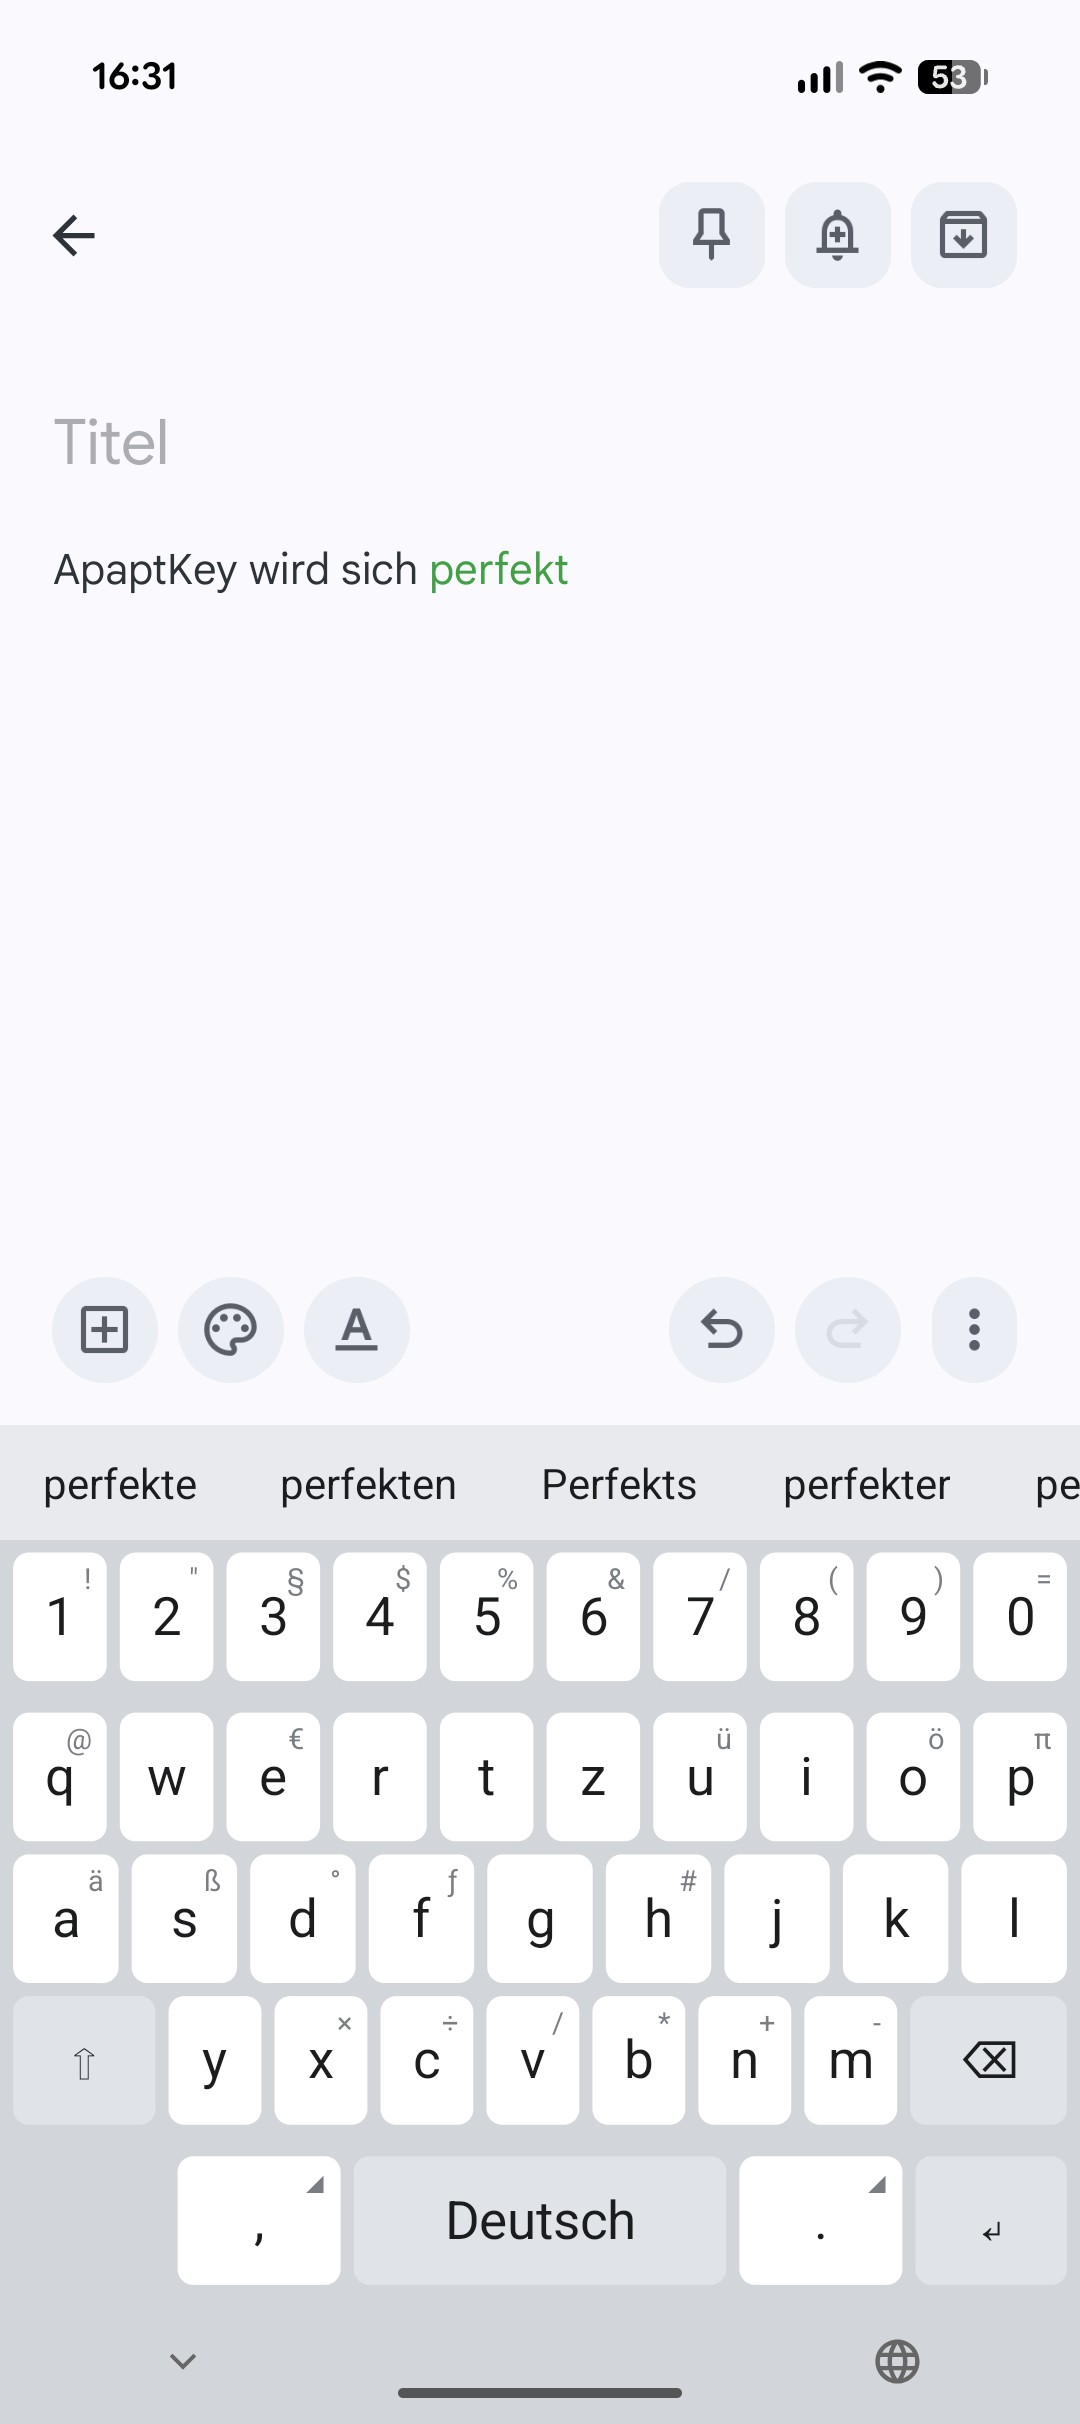
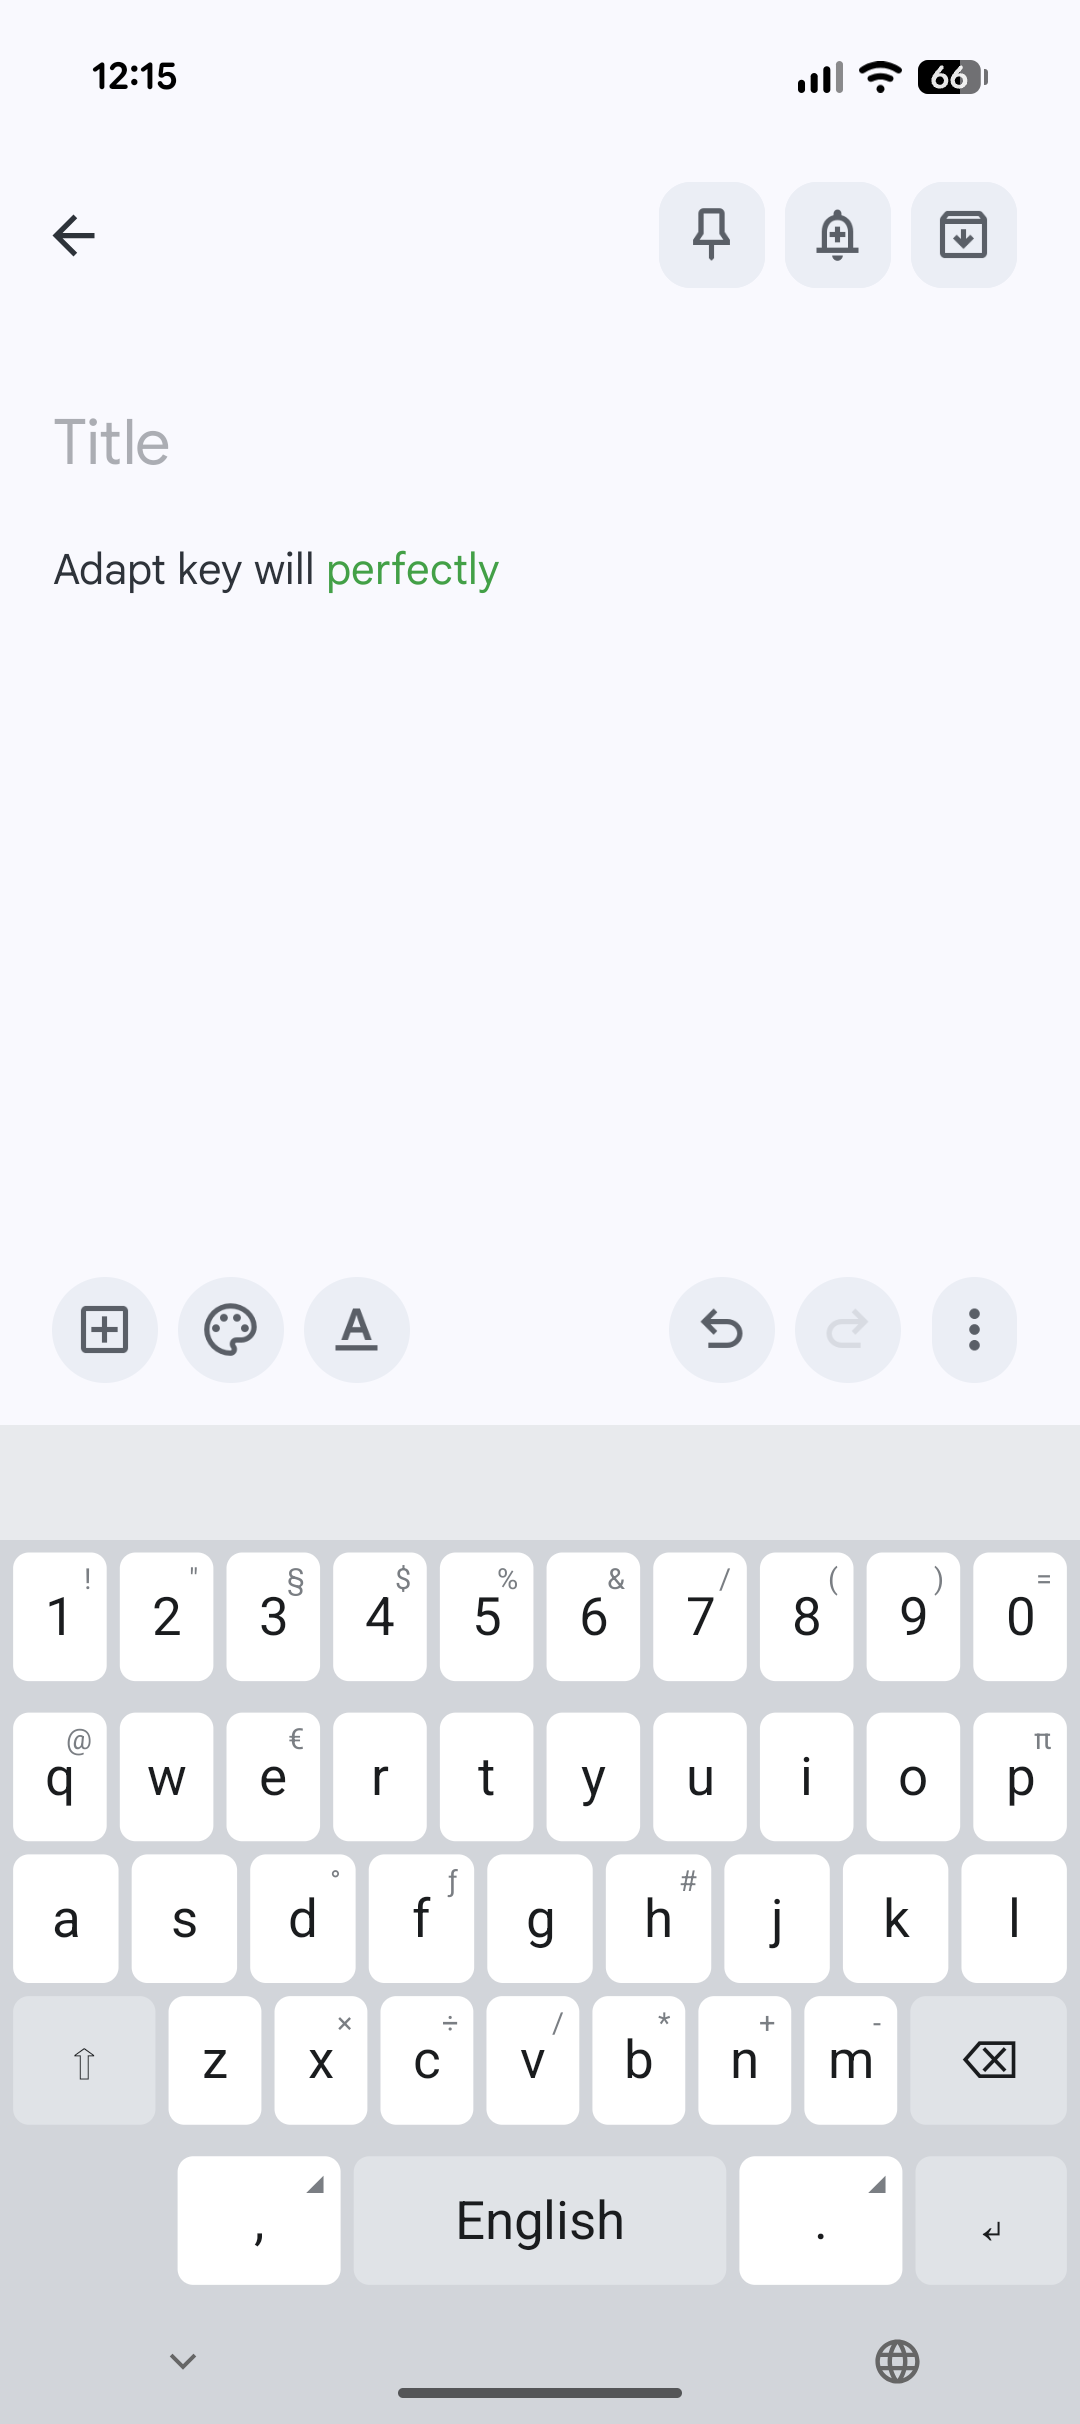
F-Droid: replace German phoneScreenshots with real English ones
Resolves the long-deferred quirk (en-US screenshots were German captures)
- the user dropped in genuine English-language keyboard screenshots.
Progress.md updated: marks this resolved and tracks the two remaining
F-Droid steps (push to origin/main, react to the maintainer's review reply
once retrieved). Not pushed - the user pushes to origin themselves.

diff --git a/AdaptKey-Progress.md b/AdaptKey-Progress.md
@@ -201,21 +201,26 @@ in every prompt.
 - **GitHub Release `v1.0.10` ("AdaptKey first official release") confirmed live**, with the signed
   `AdaptKey.apk` (36.9 MB) attached - checked via the GitHub API directly (`.../releases/tags/v1.0.10`),
   not just assumed from the page rendering.
-- **Known, deliberately-deferred quirk:** the 5 `phoneScreenshots` under
-  `fastlane/metadata/android/en-US/images/` are actually German-language captures, not English - the user
-  noticed and explicitly chose to leave this as-is for now ("das soll erstmal egal sein, damit kommt jeder
-  klar"). Not a bug to silently "fix" by moving them to `de-DE/` in a future session - revisit only if the
-  user raises it again.
+- **Real English `en-US` screenshots - RESOLVED (2026-09-12).** The 5 `phoneScreenshots` under
+  `fastlane/metadata/android/en-US/images/` were German-language captures (a deliberately-deferred quirk,
+  "das soll erstmal egal sein, damit kommt jeder klar" - see git history for the earlier note); the user has
+  now dropped in real English-language captures in their place, deliberate and confirmed (viewed directly,
+  not assumed) - genuine English keyboard/suggestion-bar/touch-zone-overlay screenshots, not a placeholder.
+  Committed locally; **still needs the user's own push to `origin/main`** (screenshots live with the app's
+  own source, read directly by F-Droid from `Repo:` - no separate `fdroiddata` submission needed, same
+  mechanism as the original screenshot request) before F-Droid's own next build picks them up.
+- **F-Droid maintainer review reply - now actually arrived, response pending (2026-09-12).** The user has a
+  reply email from F-Droid to react to - still needs retrieving/reading before anything here can be acted
+  on; nothing about its content is known yet, so nothing is assumed.
 - **Still open:**
-  - Respond to further F-Droid maintainer review feedback if/when it comes (first-time inclusion review
-    commonly takes weeks, sometimes months).
+  - React to the F-Droid maintainer's review reply once retrieved (see immediately above).
+  - Push the new English screenshots (see immediately above).
   - Once merged: F-Droid's own build/publish cycle still needs to run before the app actually appears in
     the client - merged is not yet live.
-  - Optional, still not done: real English `en-US` screenshots, and/or `de-DE`/`el-GR` screenshot sets.
+  - Optional, still not done: `de-DE`/`el-GR` screenshot sets (English `en-US` is now real, see above).
   - Verify the `Categories: [Keyboard & IME]` choice and the exact current build-metadata field set
     against F-Droid's own docs/`fdroiddata` at MR time - both were checked against the live F-Droid docs
-    and `config/categories.yml` this session, but that project's conventions can move on.
-  - Await F-Droid maintainer review (expect weeks, not days, for first inclusion).
+    and `config/categories.yml` in an earlier session, but that project's conventions can move on.
 
 ## Guardrail - Read Before Touching `onUpdateSelection` / Composing State
 
